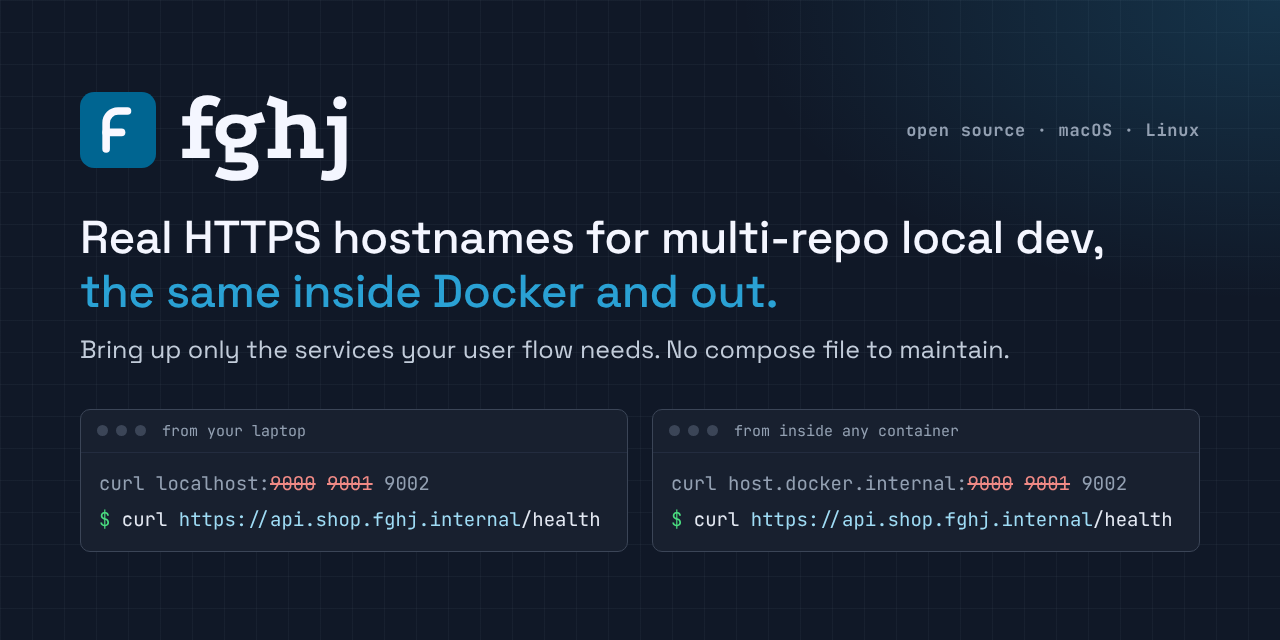
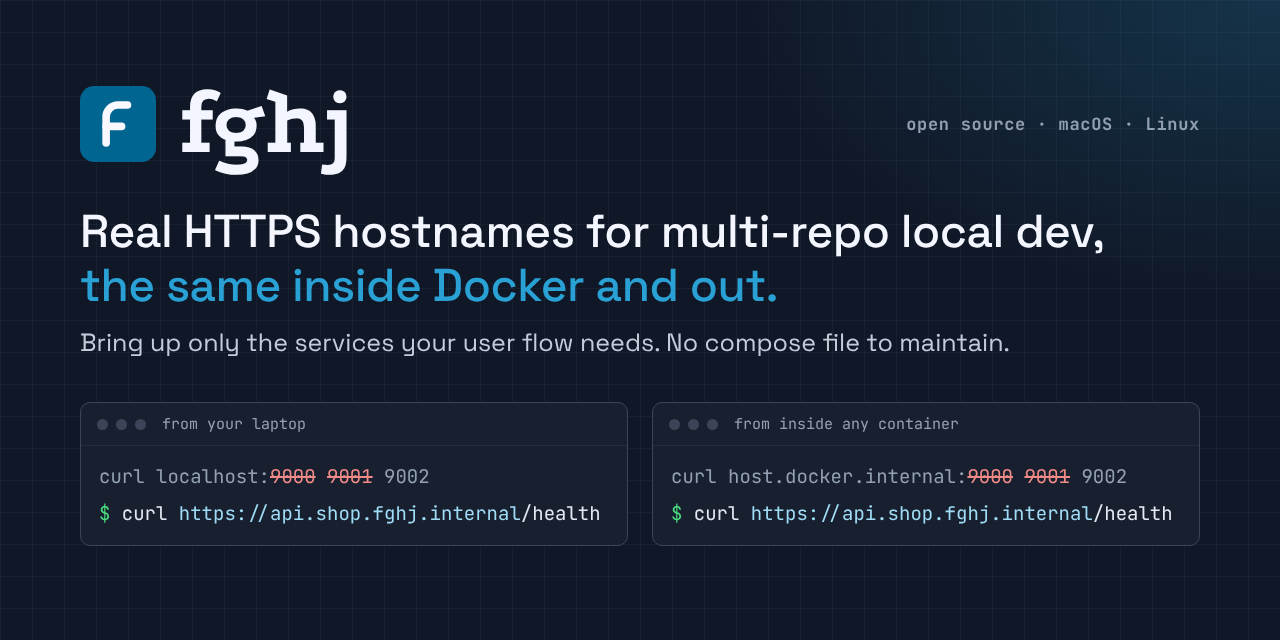
Docs: 1200x630 og:image, shorter home description, descriptive page title

diff --git a/docs/record/social-preview.html b/docs/record/social-preview.html
@@ -2,13 +2,13 @@
 <link href="https://fonts.googleapis.com/css2?family=Podkova:wght@800&family=Space+Grotesk:wght@400;500&family=JetBrains+Mono:wght@400;500;700&display=block" rel="stylesheet">
 <style>
 *{box-sizing:border-box;margin:0}
-html,body{width:1280px;height:640px;overflow:hidden}
-body{background:#101827;color:#f4f6ff;font-family:'Space Grotesk',sans-serif;position:relative}
+html,body{width:100vw;height:100vh;overflow:hidden}
+body{display:flex;align-items:center;background:#101827;color:#f4f6ff;font-family:'Space Grotesk',sans-serif;position:relative}
 body::before{content:"";position:absolute;inset:0;background:
  radial-gradient(900px 500px at 100% 0%,rgba(42,161,212,.20),transparent 60%),
  linear-gradient(rgba(147,160,178,.06) 1px,transparent 1px) 0 0/32px 32px,
  linear-gradient(90deg,rgba(147,160,178,.06) 1px,transparent 1px) 0 0/32px 32px}
-.wrap{position:relative;padding:84px 80px 0}
+.wrap{position:relative;width:100%;padding:0 80px 16px}
 .brand{display:flex;align-items:center;gap:22px}
 .brand svg{width:76px;height:76px}
 .brand h1{font-family:'Podkova',serif;font-weight:800;font-size:92px;line-height:1;letter-spacing:-1px}
